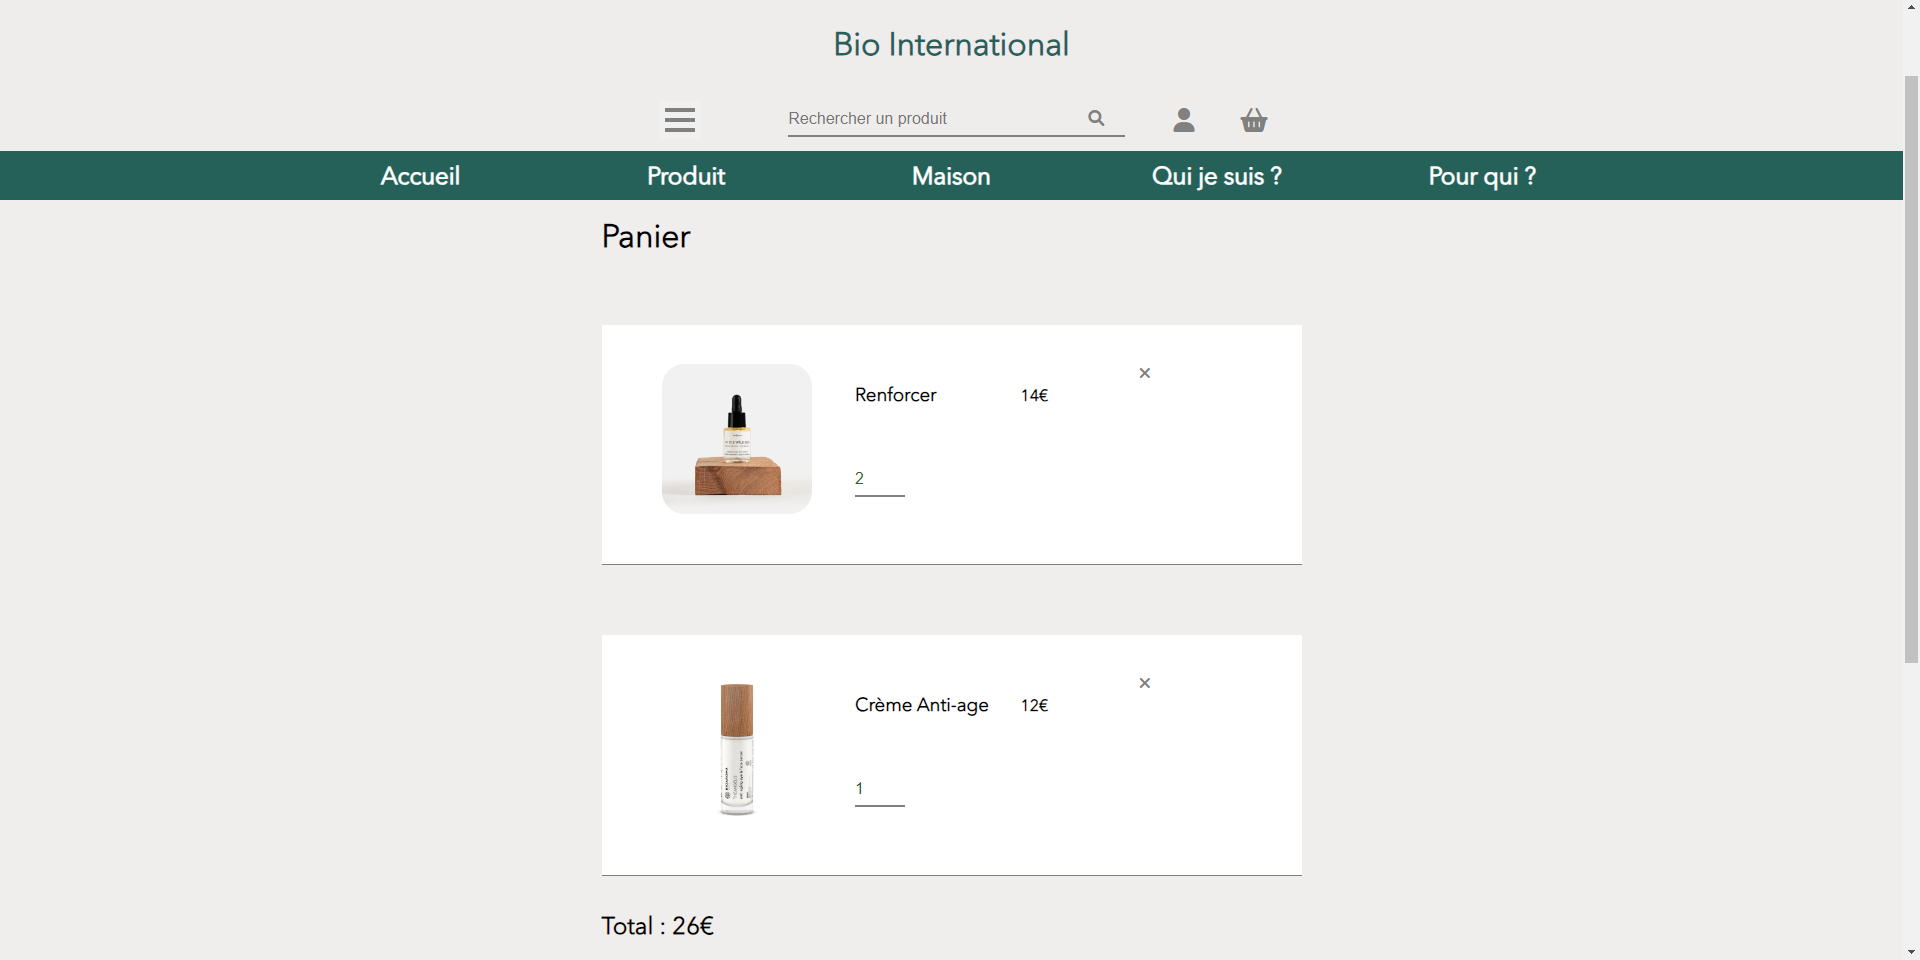
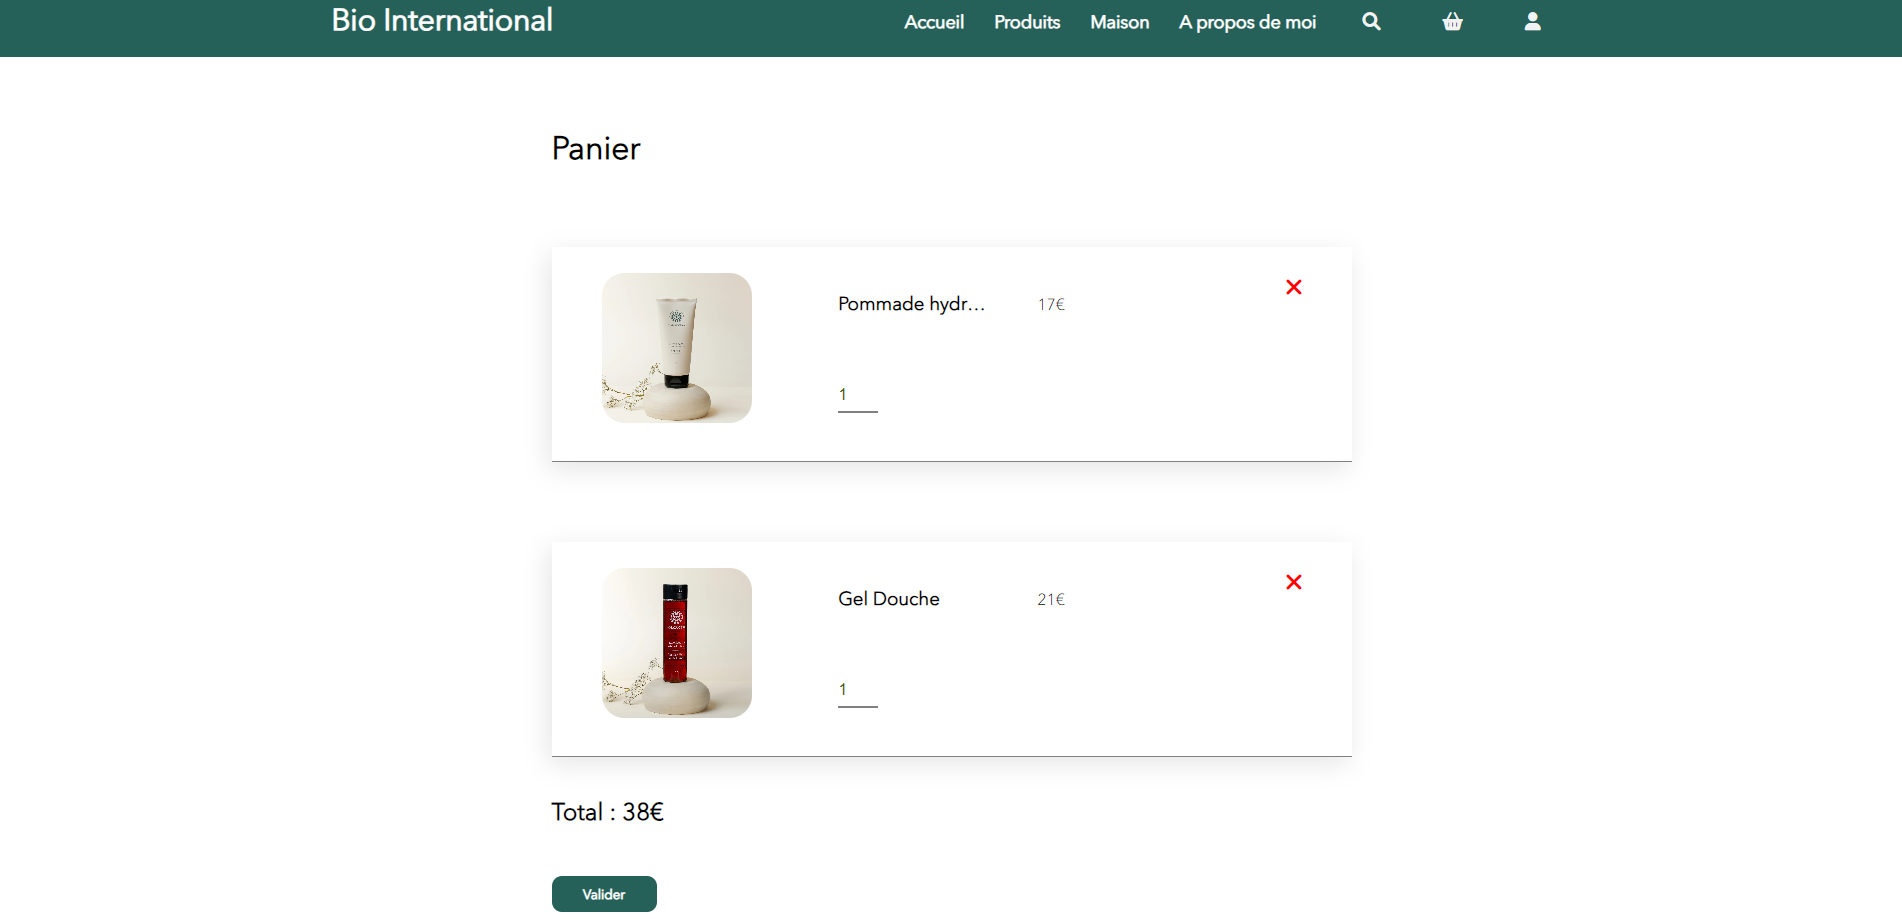
Feat: change picture for bio project and add git link

diff --git a/app/project/page.tsx b/app/project/page.tsx
@@ -33,7 +33,7 @@ export default function Page() {
                         <div className="max-w-3xl mx-auto">
                             <div className="mb-8">
                                 <h2 className="text-3xl font-bold mb-4">Contexte</h2>
-                                <p className="mb-2">Ce projet remonte au BTS. Il s&apos;agit d&apos;un de mes projets de stage, que j&apos;ai décidé de refaire avec de nouvelles technologies plus adaptées et de mettre en pratique mes nouvelles connaissances.</p>
+                                <p className="mb-2">Ce projet date du BTS. Il s&apos;agit d&apos;un de mes projets de stage, que j&apos;ai décidé de refaire avec de nouvelles technologies plus adaptées et de mettre en pratique mes nouvelles connaissances.</p>
                                 <p className="mb-2">Le projet consistait à réaliser un site web où l&apos;on pouvait réserver des produits cosmétiques et avoir une présentation de l&apos;entreprise. L&apos;entreprise ne souhaitant pas de paiement en ligne, m&apos;a indiqué d&apos;informer les utilisateurs par mail que leurs commandes peuvent être prises et compte, validées (lorsque le paiement est réalisé) et livrées à leur domicile.</p>
                                 <p>Les produits appartiennent à une maison (marque).</p>
                             </div>
@@ -41,9 +41,9 @@ export default function Page() {
                                 <h2 className="text-3xl font-bold mb-4">Aperçu</h2>
                                 <div className="grid grid-cols-1 md:grid-cols-2 lg:grid-cols-3 gap-8">
                                     <div className="mb-4 relative">
-                                        <div className="hover-overlay" onClick={(event) => openModal("/biointer/menu.png", event)}>
+                                        <div className="hover-overlay" onClick={(event) => openModal("/biointer/accueil.png", event)}>
                                             <Image
-                                                src="/biointer/menu.png"
+                                                src="/biointer/accueil.png"
                                                 alt="Val Photo"
                                                 className="rounded-md cursor-pointer"
                                                 width={700}
@@ -56,9 +56,9 @@ export default function Page() {
                                         <p className="mt-2">Page d&apos;accueil avec un défilement d&apos;images et du texte de présentation.</p>
                                     </div>
                                     <div className="mb-4 relative">
-                                        <div className="hover-overlay" onClick={(event) => openModal("/biointer/produit-1.png",event)}>
+                                        <div className="hover-overlay" onClick={(event) => openModal("/biointer/produit.png",event)}>
                                             <Image
-                                                src="/biointer/produit-1.png"
+                                                src="/biointer/produit.png"
                                                 alt="Val Photo"
                                                 className="rounded-md cursor-pointer"
                                                 width={700}
@@ -69,9 +69,9 @@ export default function Page() {
                                         <p className="mt-2">Page des produits où l&apos;on peut trier par type (crème, shampoing) ou partie du corps (cheveux, visage, main).</p>
                                     </div>
                                     <div className="mb-4 relative">
-                                        <div className="hover-overlay" onClick={(event) => openModal("/biointer/produit-2.png", event)}>
+                                        <div className="hover-overlay" onClick={(event) => openModal("/biointer/produit_2.png", event)}>
                                             <Image
-                                                src="/biointer/produit-2.png"
+                                                src="/biointer/produit_2.png"
                                                 alt="Val Photo"
                                                 className="rounded-md cursor-pointer"
                                                 width={700}
@@ -81,9 +81,9 @@ export default function Page() {
                                         </div>
                                     </div>
                                     <div className="mb-4 relative">
-                                        <div className="hover-overlay" onClick={(event) => openModal("/biointer/produit-3.png", event)}>
+                                        <div className="hover-overlay" onClick={(event) => openModal("/biointer/produit_3.png", event)}>
                                             <Image
-                                                src="/biointer/produit-3.png"
+                                                src="/biointer/produit_3.png"
                                                 alt="Val Photo"
                                                 className="rounded-md cursor-pointer"
                                                 width={600}
@@ -92,12 +92,12 @@ export default function Page() {
                                             />
                                         </div>
                                         
-                                        <p className="mt-2">Page d&apos;un des produits avec le nom la quantité a réserver, et les details qui le concerne.</p>
+                                        <p className="mt-2">Page d&apos;un produit avec le nom la quantité a réserver, et les details qui le concerne.</p>
                                     </div>
                                     <div className="mb-4 relative">
-                                        <div className="hover-overlay" onClick={(event) => openModal("/biointer/produit-4.png", event)}>
+                                        <div className="hover-overlay" onClick={(event) => openModal("/biointer/search.png", event)}>
                                             <Image
-                                                src="/biointer/produit-4.png"
+                                                src="/biointer/search.png"
                                                 alt="Val Photo"
                                                 className="rounded-md cursor-pointer"
                                                 width={700}
@@ -109,9 +109,37 @@ export default function Page() {
                                         <p className="mt-2">Recherche dynamique d&apos;un produit.</p>
                                     </div>
                                     <div className="mb-4 relative">
-                                        <div className="hover-overlay" onClick={(event) => openModal("/biointer/admin-produit.png", event)}>
+                                        <div className="hover-overlay" onClick={(event) => openModal("/biointer/panier.png", event)}>
                                             <Image
-                                                src="/biointer/admin-produit.png"
+                                                src="/biointer/panier.png"
+                                                alt="Val Photo"
+                                                className="rounded-md cursor-pointer"
+                                                width={700}
+                                                height={100}
+                                                priority
+                                            />
+                                        </div>
+                                        
+                                        <p className="mt-2">Panier de l&apos;utilisateur qui a réservé des produits</p>
+                                    </div>
+                                    <div className="mb-4 relative">
+                                        <div className="hover-overlay" onClick={(event) => openModal("/biointer/commande.png", event)}>
+                                            <Image
+                                                src="/biointer/commande.png"
+                                                alt="Val Photo"
+                                                className="rounded-md cursor-pointer"
+                                                width={700}
+                                                height={100}
+                                                priority
+                                            />
+                                        </div>
+                                        
+                                        <p className="mt-2">Commande en cours de validation par l&apos;administrateur</p>
+                                    </div>
+                                    <div className="mb-4 relative">
+                                        <div className="hover-overlay" onClick={(event) => openModal("/biointer/produit_admin.png", event)}>
+                                            <Image
+                                                src="/biointer/produit_admin.png"
                                                 alt="Val Photo"
                                                 className="rounded-md cursor-pointer"
                                                 width={700}
@@ -122,8 +150,28 @@ export default function Page() {
                                         </div>
                                         
                                         <p className="mt-2">Interface administrateur pour gérer les produits.</p>
-                                        <p className="mt-2">Il y a aussi une interface pour gérer les types, les maisons et les commandes à valider.</p>
+                                        <p className="mt-2">Il existe aussi une interface pour gérer les types, les maisons et les commandes à valider.</p>
                                     </div>
+                                    <div className="mb-4 relative">
+                                        <div className="hover-overlay" onClick={(event) => openModal("/biointer/commande_admin.png", event)}>
+                                            <Image
+                                                src="/biointer/commande_admin.png"
+                                                alt="Val Photo"
+                                                className="rounded-md cursor-pointer"
+                                                width={700}
+                                                height={100}
+                                                priority
+                                            />
+
+                                        </div>
+                                        
+                                        <p className="mt-2">Interface administrateur pour gérer les commandes.</p>
+                                        <p className="mt-2">L&apos;administrateur peut valider modifier ou supprimer la commande.</p>
+                                    </div>
+                                </div>
+                                <div className="mb-8">
+                                    <h2 className="text-3xl font-bold mb-4">Lien vers le git :</h2>
+                                    <a  href="https://github.com/vava56754/bio-international">cliquer ici</a>
                                 </div>
                             </div>
                         </div>

diff --git a/app/ui/square.tsx b/app/ui/square.tsx
@@ -18,7 +18,7 @@ const Square: React.FC<SquareProps> = ({ title, content }) => {
 
     return (
         <div
-        className={`my-8 min-w-[300px] min-h-[100px] sm:w-1/4 sm:h-1/4 md:w-1/5 md:h-1/5 p-10 lg:w-1/6 lg:h-1/6 bg-white rounded-md shadow-xl flex flex-col items-center cursor-pointer transition-all duration-300 ease-in-out ${expanded ? 'expanded ' : ''}`}
+        className={`my-8 min-w-[300px] min-h-[100px] md:w-1/6 md:h-1/6 p-10 lg:w-1/6 lg:h-1/6 bg-white rounded-md shadow-xl flex flex-col items-center cursor-pointer transition-all duration-300 ease-in-out ${expanded ? 'expanded ' : ''}`}
         onClick={toggleExpansion}
         style={{ width: expanded ? 'calc(100%)' : '' }}
         >
